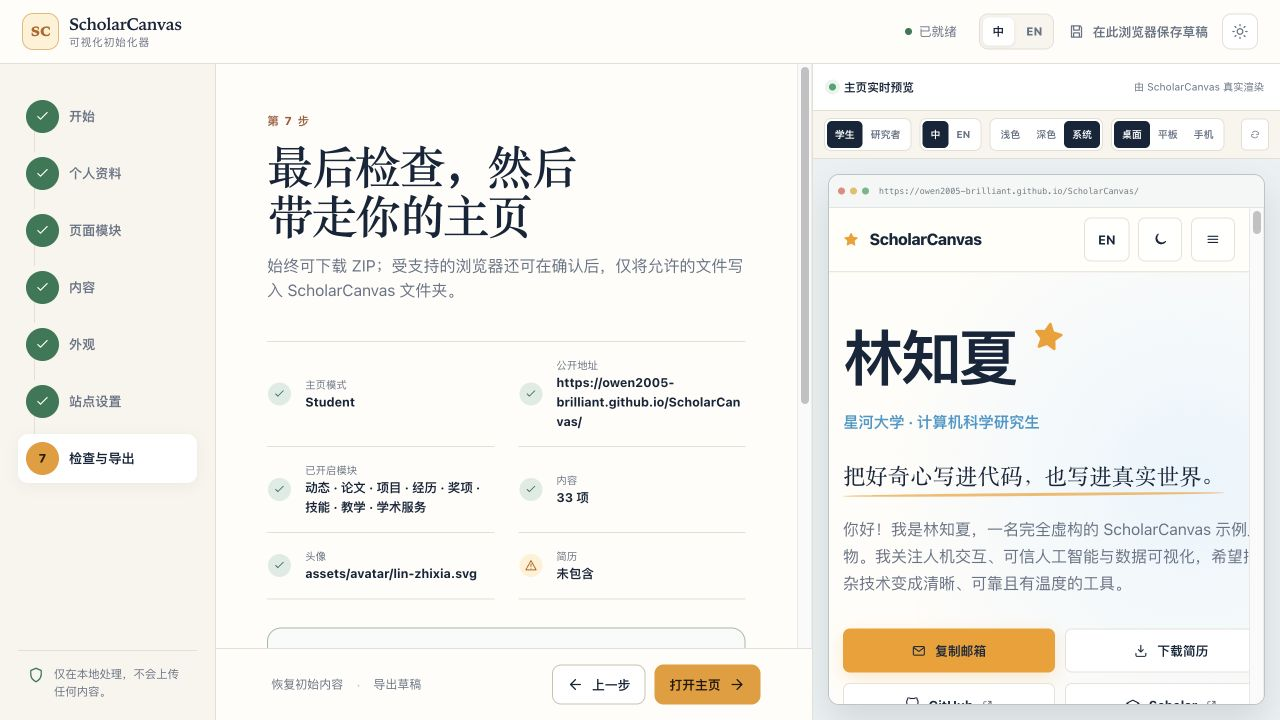
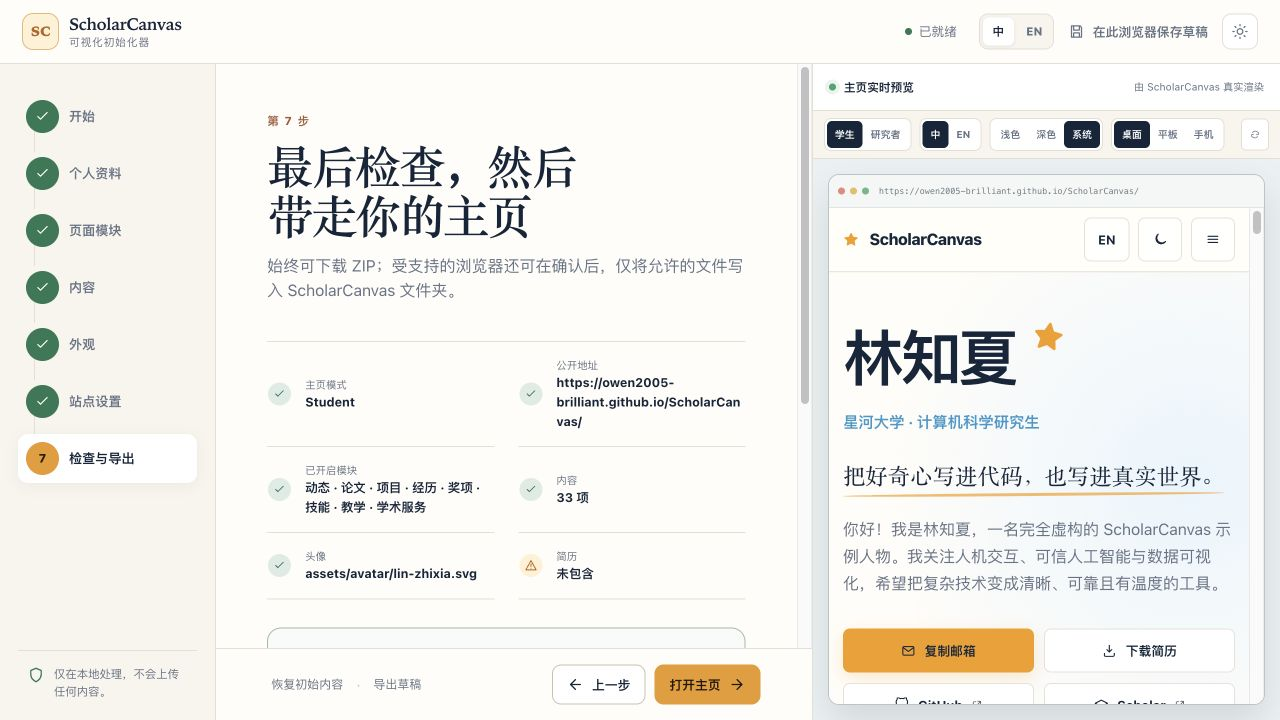
Fix preview asset base paths

diff --git a/setup/preview/index.html b/setup/preview/index.html
@@ -5,15 +5,16 @@
     <meta name="viewport" content="width=device-width, initial-scale=1, viewport-fit=cover">
     <meta name="color-scheme" content="light dark">
     <meta name="robots" content="noindex, nofollow">
+    <base href="../../">
     <title>ScholarCanvas Setup Preview</title>
-    <link rel="stylesheet" href="../../styles/tokens.css">
-    <link rel="stylesheet" href="../../styles/base.css">
-    <link rel="stylesheet" href="../../styles/layout.css">
-    <link rel="stylesheet" href="../../styles/components.css">
-    <link rel="stylesheet" href="../../styles/student.css">
-    <link rel="stylesheet" href="../../styles/researcher.css">
-    <link rel="stylesheet" href="../../styles/dark.css">
-    <link rel="stylesheet" href="../../styles/responsive.css">
+    <link rel="stylesheet" href="styles/tokens.css">
+    <link rel="stylesheet" href="styles/base.css">
+    <link rel="stylesheet" href="styles/layout.css">
+    <link rel="stylesheet" href="styles/components.css">
+    <link rel="stylesheet" href="styles/student.css">
+    <link rel="stylesheet" href="styles/researcher.css">
+    <link rel="stylesheet" href="styles/dark.css">
+    <link rel="stylesheet" href="styles/responsive.css">
   </head>
   <body>
     <a class="skip-link" href="#main-content">跳到主要内容</a>
@@ -47,34 +48,34 @@
       <symbol id="icon-external" viewBox="0 0 24 24"><path d="M14 4h6v6m0-6-9 9"/><path d="M19 14v5a1 1 0 0 1-1 1H5a1 1 0 0 1-1-1V6a1 1 0 0 1 1-1h5"/></symbol>
     </svg>
 
-    <script defer src="../../data/site.js"></script>
-    <script defer src="../../data/profile.js"></script>
-    <script defer src="../../data/news.js"></script>
-    <script defer src="../../data/publications.js"></script>
-    <script defer src="../../data/projects.js"></script>
-    <script defer src="../../data/experience.js"></script>
-    <script defer src="../../data/awards.js"></script>
-    <script defer src="../../data/skills.js"></script>
-    <script defer src="../../data/teaching.js"></script>
-    <script defer src="../../data/service.js"></script>
-    <script defer src="../../setup/schema.js"></script>
-    <script defer src="../../setup/validators.js"></script>
-    <script defer src="../../src/i18n.js"></script>
-    <script defer src="../../src/theme.js"></script>
-    <script defer src="../../src/accessibility.js"></script>
-    <script defer src="../../src/interactions.js"></script>
-    <script defer src="../../src/renderer.js"></script>
-    <script defer src="../../src/components/hero.js"></script>
-    <script defer src="../../src/components/news.js"></script>
-    <script defer src="../../src/components/publications.js"></script>
-    <script defer src="../../src/components/projects.js"></script>
-    <script defer src="../../src/components/experience.js"></script>
-    <script defer src="../../src/components/awards.js"></script>
-    <script defer src="../../src/components/skills.js"></script>
-    <script defer src="../../src/components/teaching.js"></script>
-    <script defer src="../../src/components/service.js"></script>
-    <script defer src="../../src/components/footer.js"></script>
-    <script defer src="bootstrap.js"></script>
-    <script defer src="../../src/app.js"></script>
+    <script defer src="data/site.js"></script>
+    <script defer src="data/profile.js"></script>
+    <script defer src="data/news.js"></script>
+    <script defer src="data/publications.js"></script>
+    <script defer src="data/projects.js"></script>
+    <script defer src="data/experience.js"></script>
+    <script defer src="data/awards.js"></script>
+    <script defer src="data/skills.js"></script>
+    <script defer src="data/teaching.js"></script>
+    <script defer src="data/service.js"></script>
+    <script defer src="setup/schema.js"></script>
+    <script defer src="setup/validators.js"></script>
+    <script defer src="src/i18n.js"></script>
+    <script defer src="src/theme.js"></script>
+    <script defer src="src/accessibility.js"></script>
+    <script defer src="src/interactions.js"></script>
+    <script defer src="src/renderer.js"></script>
+    <script defer src="src/components/hero.js"></script>
+    <script defer src="src/components/news.js"></script>
+    <script defer src="src/components/publications.js"></script>
+    <script defer src="src/components/projects.js"></script>
+    <script defer src="src/components/experience.js"></script>
+    <script defer src="src/components/awards.js"></script>
+    <script defer src="src/components/skills.js"></script>
+    <script defer src="src/components/teaching.js"></script>
+    <script defer src="src/components/service.js"></script>
+    <script defer src="src/components/footer.js"></script>
+    <script defer src="setup/preview/bootstrap.js"></script>
+    <script defer src="src/app.js"></script>
   </body>
 </html>

diff --git a/setup/setup.js b/setup/setup.js
@@ -78,7 +78,7 @@
       h("div", { class: "setup-preview__stage" },
         h("div", { class: "setup-preview__browser" },
           h("div", { class: "setup-preview__browser-bar", "aria-hidden": "true" }, h("span"), h("span"), h("span"), h("code", { text: namespace.serializer.computeSiteUrl(state.site) })),
-          h("iframe", { id: "setup-preview-frame", title: language === "en" ? "ScholarCanvas live preview" : "ScholarCanvas 实时预览", src: "setup/preview/index.html", sandbox: "allow-scripts allow-same-origin" })
+          h("iframe", { id: "setup-preview-frame", title: language === "en" ? "ScholarCanvas live preview" : "ScholarCanvas 实时预览", src: "setup/preview/index.html?v=1.1.0", sandbox: "allow-scripts allow-same-origin" })
         )
       )
     );

diff --git a/setup/preview/bootstrap.js b/setup/preview/bootstrap.js
@@ -54,6 +54,14 @@
   }
 
   window.addEventListener("message", onMessage);
+  document.addEventListener("click", (event) => {
+    const link = event.target.closest && event.target.closest('a[href^="#"]');
+    if (!link) return;
+    const target = document.getElementById(link.getAttribute("href").slice(1));
+    if (!target) return;
+    event.preventDefault();
+    target.scrollIntoView({ block: "start", behavior: namespace.accessibility && namespace.accessibility.prefersReducedMotion() ? "auto" : "smooth" });
+  });
   document.addEventListener("DOMContentLoaded", () => {
     if (pending) applyPayload(pending);
     window.parent.postMessage({ type: "SCHOLAR_CANVAS_PREVIEW_READY", version: 1 }, window.location.protocol === "file:" ? "*" : window.location.origin);
